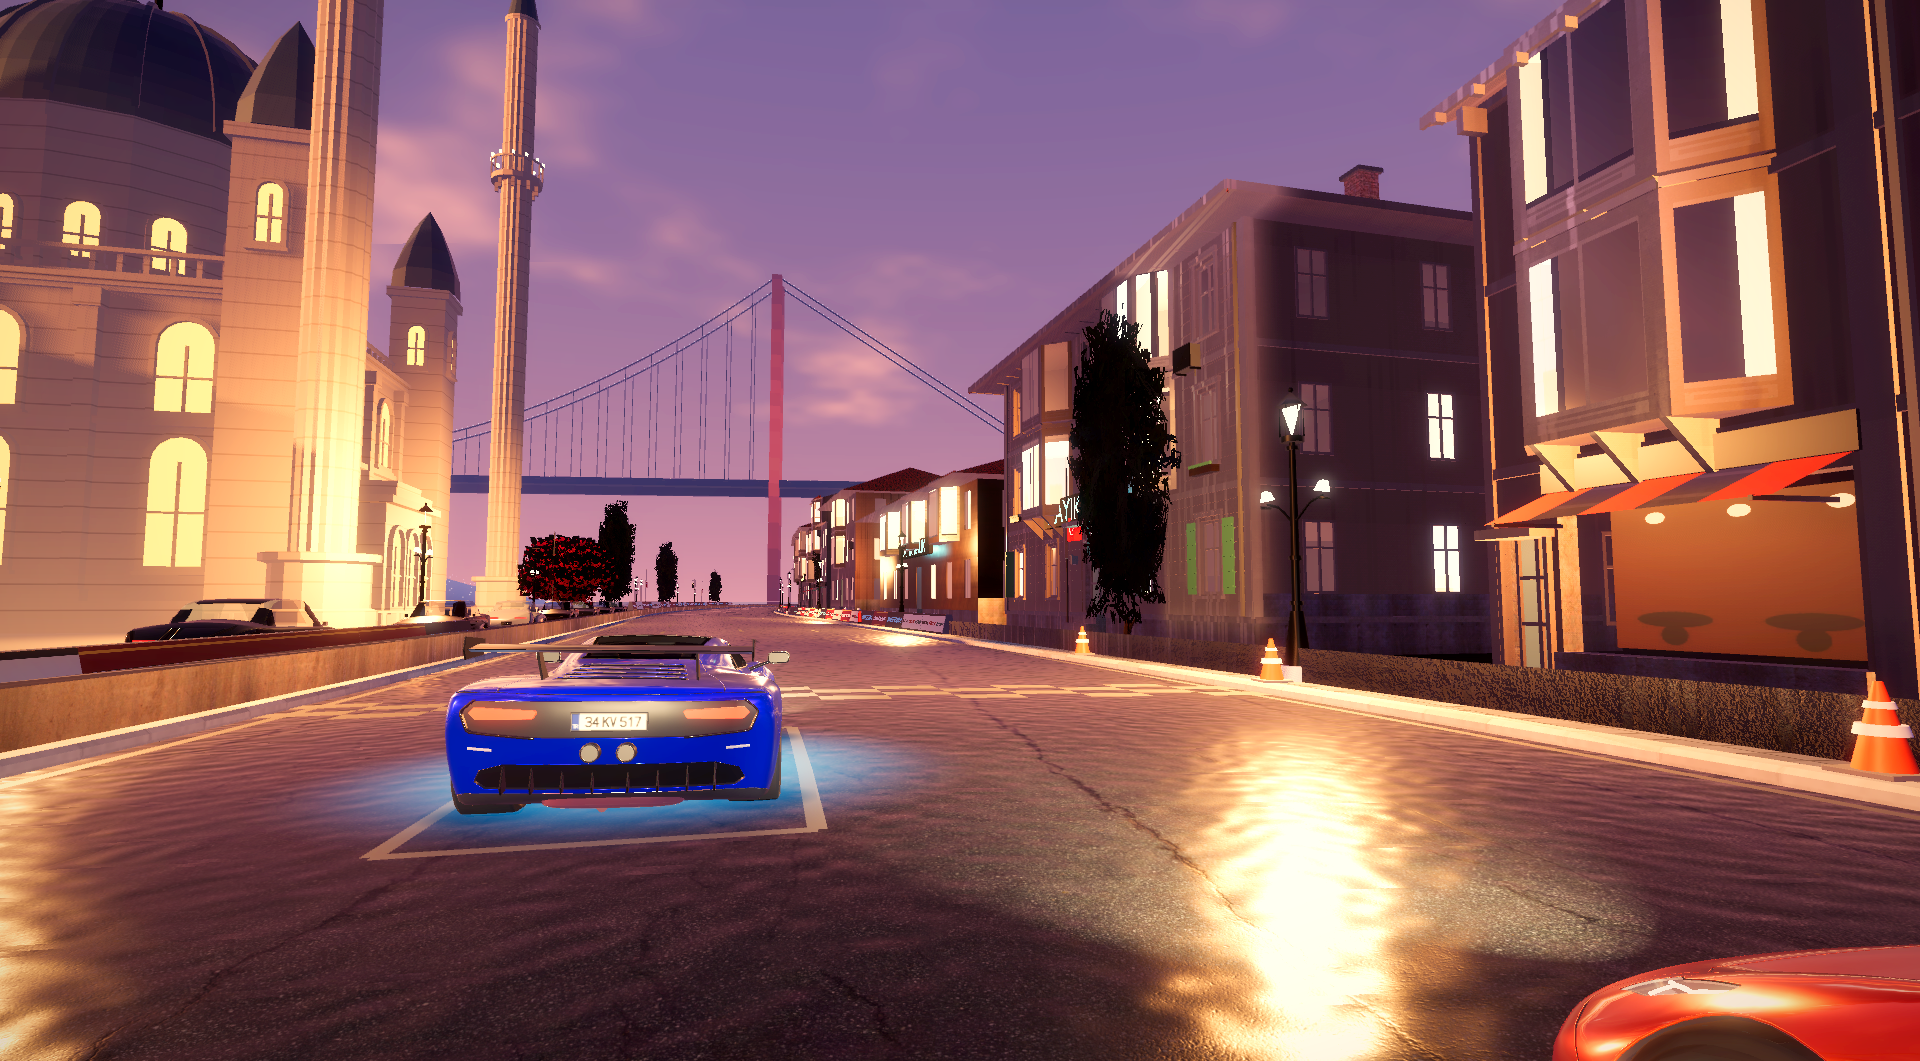
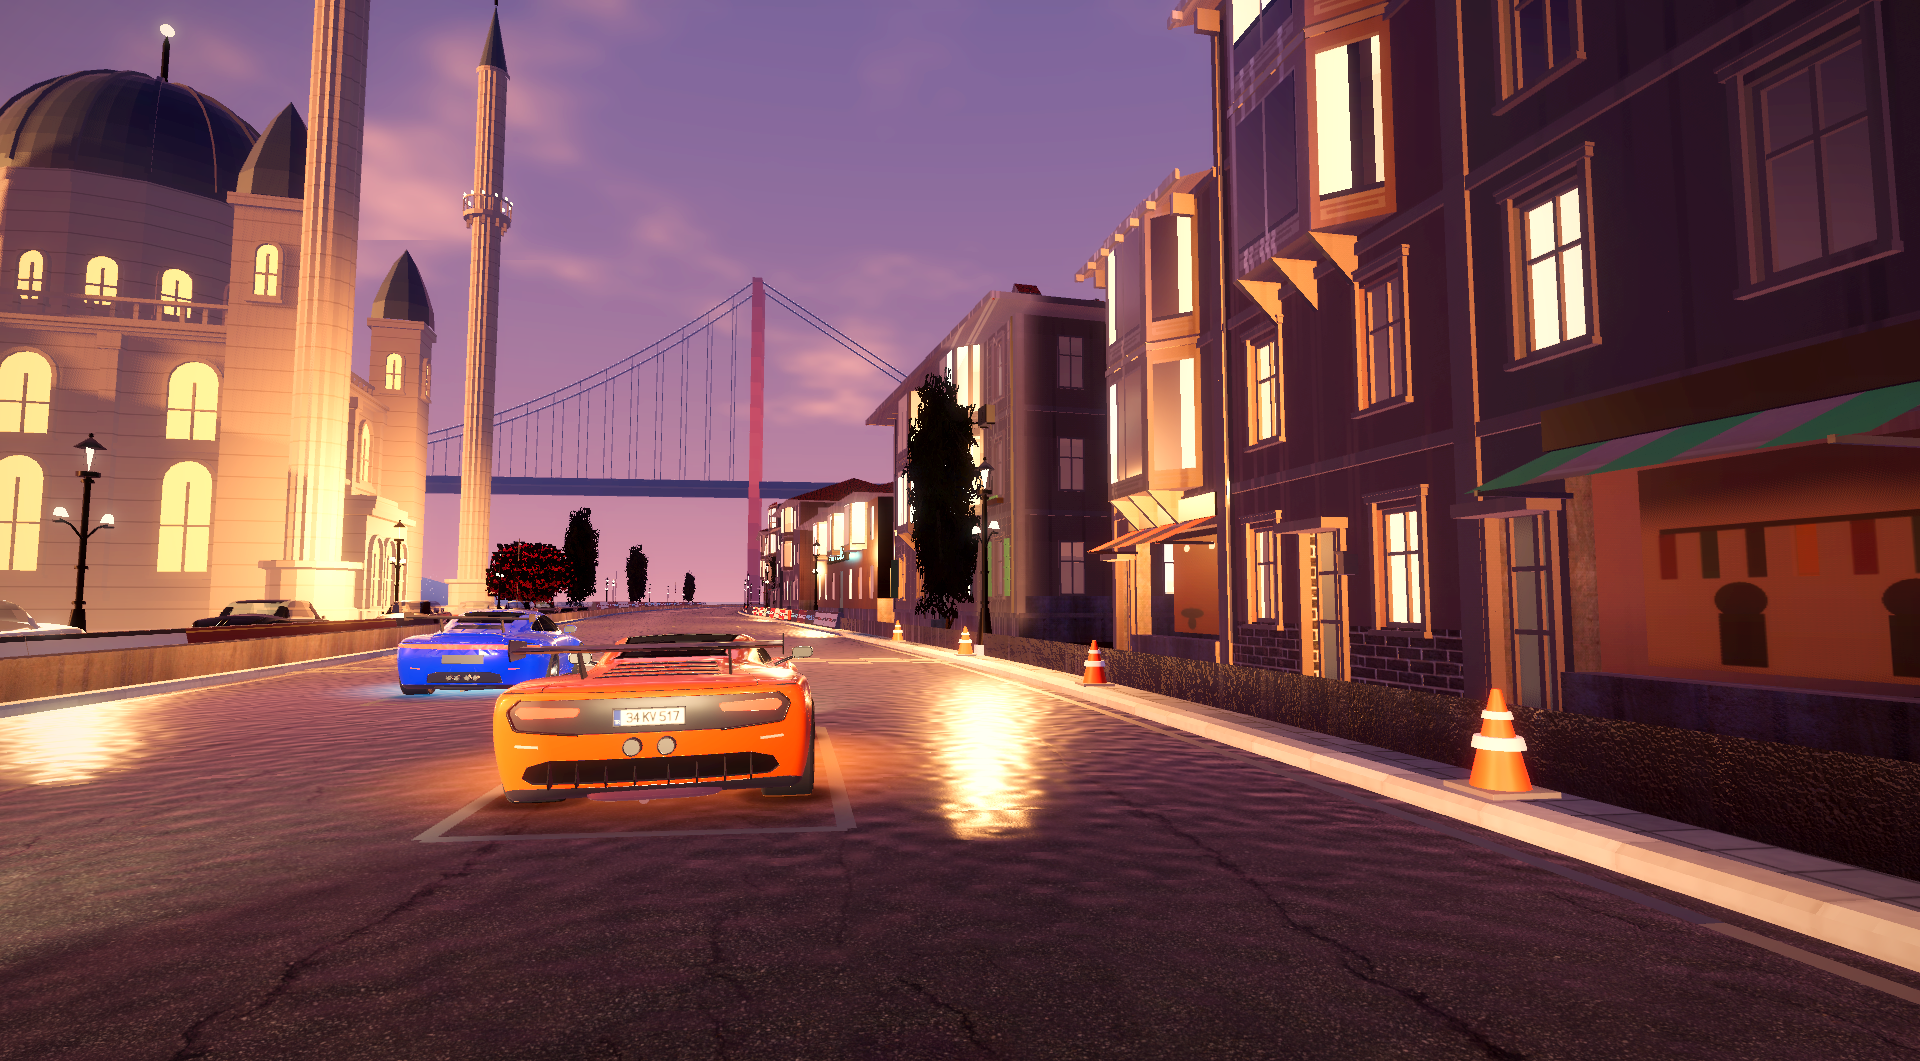
Evidence refresh: six licensed cars, mixed licensed grid, 307 tests green, benchmark peaks 397 draws / 411k primitives

diff --git a/evidence/PROGRESS.md b/evidence/PROGRESS.md
@@ -1,25 +1,25 @@
 # Graphics rescue progress (max 30 lines)
 
-- HEAD: f5ec4ff on feature/vertical-slice (last pushed c191d50; no push since the rescue package arrived). Main untouched.
+- HEAD: f705929 on feature/vertical-slice (last pushed c191d50; no push since the rescue package arrived). Main untouched.
 - Engine: Godot 4.7.2 stable, Mobile renderer. Device: Windows 11, RTX 5060 Ti 8 GB. No Mac, no iPhone test.
 - Run the benchmark: `godot --audio-driver Dummy --path game --resolution 1920x1080 --position 20000,0 res://devtools/capture_boot.tscn -- --capture=ortakoy_benchmark [--tod=day|sunset|night]`
-- Last valid state: 306 tests, 0 failed (evidence/test.log); asset manifest 516 records, 0 failing; third_party_assets.json 0 errors.
+- Last valid state: 307 tests, 0 failed (evidence/test.log); asset manifest 532 records, 0 failing; third_party_assets.json 0 errors.
 - Evidence (real engine captures): evidence/before.png, after_day.png, after_night.png, gameplay.png; all 15 benchmark shots in evidence/screens/ortakoy_benchmark/; Blender previews in evidence/car_preview/ and assets_src/third_party/vinish_cars/renders/.
-- Performance, night gameplay shot: 302 fps, 3.31 ms avg, 4.14 ms p95, 377 draws, 374k primitives (desktop, uncapped, not iPhone).
+- Performance, night gameplay shot (3 licensed rivals): 186 fps, 5.39 ms avg, 6.92 ms p95, 397 draws, 399k primitives (desktop, uncapped, not iPhone).
 
 ## Gates (MIDNIGHT_RESCUE/03_QUALITY_GATE.md)
-- G0 baseline: done. G1 car: licensed CC BY 4.0 models in the game (Kestrel Vanta, Arden Havoc), credit shown in settings.
+- G0 baseline: done. G1 car: six licensed CC BY 4.0 cars in the game (starter Noctra Tayfun; rivals drawn from them), credits shown in settings.
 - G2 landmark: mosque, bridge and far shore recognisable by day; houses improved but still plain. Partly met.
 - G3 night: local reflections, paint highlights, warm/cool balance. Met by the lead's eye; owner to confirm.
 - G4 gameplay: real race, live HUD, 306 regression tests green. G5: desktop numbers only. G6: waiting for the owner's review.
 
 ## Three open flaws
 1. Houses and roofs still read simple in daylight (geometry, not lighting).
-2. Rivals and the starter car are still the older procedural cars (four more licensed cars are being prepared).
+2. Mosque stone is flat cream by day; amber indicators on the licensed cars do not glow; old saves keep the Sable until the free Tayfun is picked in the garage.
 3. No spectators, no rain beads on paint, no puddle break-up on the road.
 
 ## Next single task
-Merge the four further licensed cars (new starter, licensed rival grid), re-capture, re-run the suite.
+Owner review of the captures (gate G6). Then: house roofs and facade depth, or spectators, by the owner's choice.
 
 ## Blockers
 B1/B2 no Mac or iPhone; B9 unsigned exe blocked by Smart App Control; B10 Blender MCP not connected (headless scripts used);
